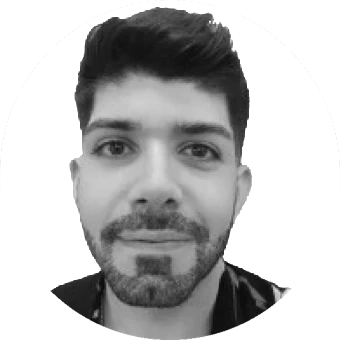
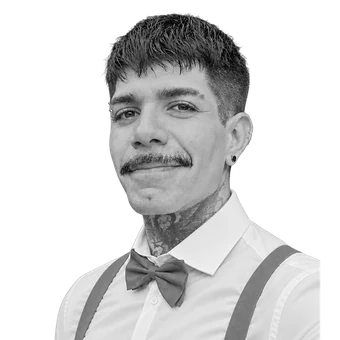
New photo on the designer card
The portrait is the 2026 photo: a clean cutout (from "Victor Mascaro
2026 (no bg).png"), grayscale like before, cropped square from the hair
to the bow tie and scaled evenly, so nothing is stretched. It shows on
Home, on the Contact copy and in the Design system preview; its two
references carry ?v=2026-11-04b so browsers fetch it again. CLAUDE.md
notes how it's made.

diff --git a/index.html b/index.html
@@ -121,7 +121,7 @@
           <span class="pc-level" title="5 years shipping products"><span data-i18n="card.level">Lv. 5</span></span>
         </div>
         <div class="pc-portrait">
-          <img src="assets/img/victor.webp" alt="Portrait of Victor Mascaro" width="340" height="340">
+          <img src="assets/img/victor.webp?v=2026-11-04b" alt="Portrait of Victor Mascaro" width="340" height="340">
         </div>
         <div class="pc-id">
           <h2 class="pc-name pc-logo"><img src="assets/brand/svg/vm-primary-dark.svg" alt="Victor Mascaro: UX/AI, Gamification, Game Design" width="781" height="213"></h2>
@@ -369,7 +369,7 @@
           <span class="pc-level" title="5 years of work since 2021"><span data-i18n="card.level">Lv. 5</span></span>
         </div>
         <div class="pc-portrait">
-          <img loading="lazy" src="assets/img/victor.webp" alt="Portrait of Victor Mascaro" width="340" height="340">
+          <img loading="lazy" src="assets/img/victor.webp?v=2026-11-04b" alt="Portrait of Victor Mascaro" width="340" height="340">
         </div>
         <div class="pc-id">
           <h2 aria-level="6" data-ds-level="1" class="pc-name pc-logo"><img loading="lazy" src="assets/brand/svg/vm-primary-dark.svg" alt="Victor Mascaro: UX/AI, Gamification, Game Design" width="781" height="213"></h2>

diff --git a/CLAUDE.md b/CLAUDE.md
@@ -41,6 +41,7 @@ Craft details matter as much as content.
 - The **Lab** tab (`#lab`, right after Projects) lists my own prototypes from `CONTENT.lab` in `content.js`. Each card is the Projects card (`labCardHTML` in app.js), but it opens the prototype itself in a new tab instead of a sheet. Cards are `layout: 'md'`: two per row on desktop like the game cards, stacked from 900px down, and a lone last card takes the full row. Covers are compositions of real screens on a transparent background, so the card's tone shows through in both themes. Opening a prototype from a Lab card completes the Field test mission. The tab ends with the Lab offer (`.lab-offer`), an invite to ask for a custom solution in the Contact colours (the `--contact-*` tokens: light, or deep blue in the dark theme); its blueprint phone builds itself when it scrolls into view (`buildLabOffer` in app.js adds `is-ready`, then `is-building`). Every Lab card follows one template: the kicker is “Personal project · what it’s about”, the tagline states the problem with its number and source year, then what the prototype does about it; the chip gives the time to try it and how it runs (“About 3 min · guided”). On the prototype page itself, the problem leads with its number and the solution opens with “How might we…” (PT “Como poderíamos…”). The time is an estimate until a real run is timed, so it starts with “About”.
 - The **Design system** tab (`#system` in `index.html`, between Skills and Contact; parts link as `#ds-color`, `#ds-c-button`…) documents the design language. Token values, contrast and the type scale are read from `main.css` at runtime; the component previews are static copies of the live markup (ids stripped, email as a placeholder), so refresh a preview by hand when its component changes. Its own styles and script are `design-system.css` and `design-system.js`; app.js runs the tab itself and wires the previews of the compare slider, the film and the designer card tilt. Links inside a preview don't navigate. Opening the tab completes the Blueprint quest.
 - The CSS and JS links in `index.html` carry `?v=`; bump it whenever those files change, or a cached copy can pair a new page with old words (keys like `ds.ov.intro` on screen).
+- The card portrait `assets/img/victor.webp` is a 340px grayscale cutout on transparency (the card's blue disc shows behind it), framed from the hair to the bow tie. Made from `Documents/Design/UX Design/Portfolio/Victor Mascaro 2026 (no bg).png` (a square crop, scaled evenly). To replace it: start from a clean cutout (rembg's edges were rejected), crop square, and bump the `?v=` on its two `index.html` references.
 - The designer card appears twice: on Home (`#playerCard`, the one to edit) and in Contact (`#contactCard`), which `renderContactCard()` in app.js fills with a copy on every render.
 - `assets/img/tools.svg` is a sprite of one-colour tool logos for Experience, one per brand (sources listed at its top: Simple Icons, CC0, plus a few marks from the brands' own sites). `toolLogos` in `content.js` maps each tool name to a symbol, or to `{ mono }` initials as a stopgap; a new tool needs an entry and its symbol in the sprite.
 - `assets/brand/` holds the logo kit (see its README); the header shows the app icon, the designer card the primary logo.
